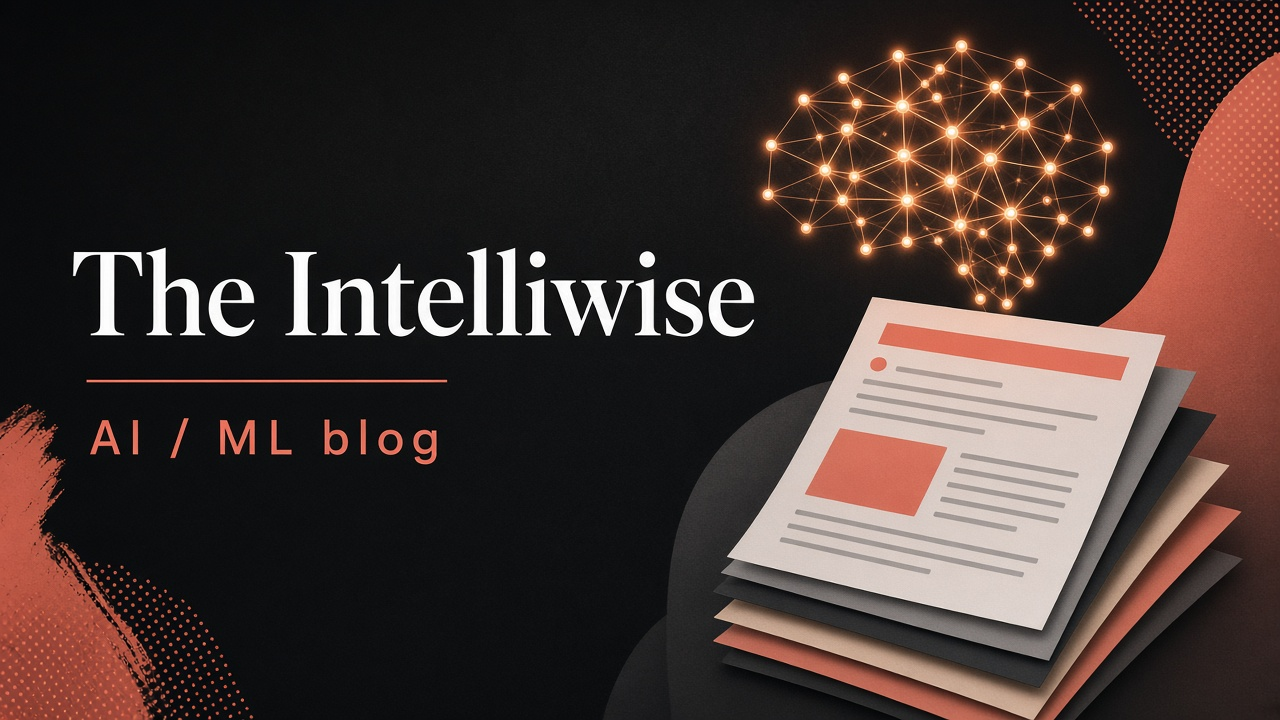
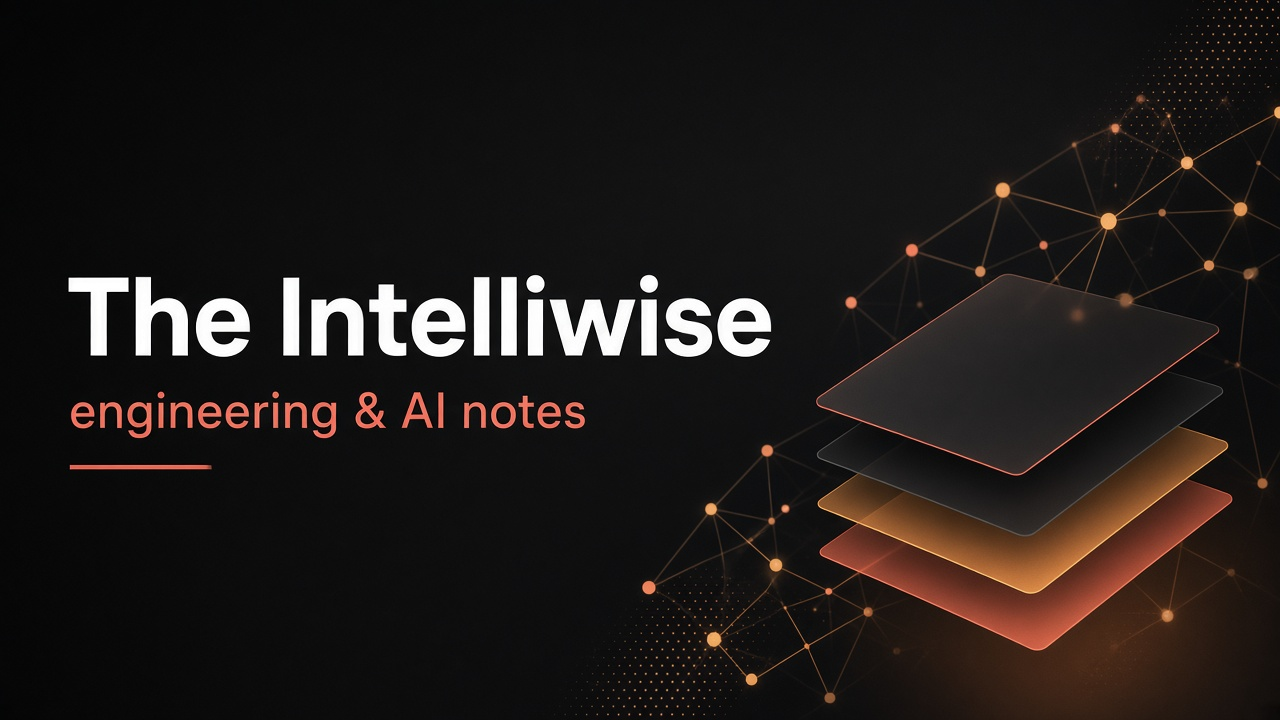
Swap in the revised Intelliwise featured thumbnail
Replace the earlier featured graphic with Vijay’s updated JPG
(neural net + stacked layers; subtitle “engineering & AI notes”).
Keep the wash at ~7% light / ~10% dark, cropped and masked so the
masthead lettering does not read as duplicate site copy.

diff --git a/assets/css/main.scss b/assets/css/main.scss
@@ -76,9 +76,9 @@ body {
   -webkit-font-smoothing: antialiased;
 }
 
-/* Atmosphere from the featured graphic: charcoal, coral, neural nodes,
-   paper stack. Lettering in the asset is cropped, masked, and blurred so
-   it cannot be read as a second masthead or as a topic tagline. */
+/* Atmosphere from the featured graphic: charcoal, coral, neural net,
+   stacked layers. Lettering in the asset is cropped, masked, and blurred
+   so it cannot be read as a second masthead or as a topic tagline. */
 .site-bg {
   position: fixed;
   inset: 0;
@@ -94,25 +94,25 @@ body {
   background-image: url("../images/brand/intelliwise-featured-thumb.jpg");
   background-repeat: no-repeat;
   background-size: cover;
-  background-position: 100% 8%;
-  transform: scale(1.85);
-  transform-origin: 100% 6%;
+  background-position: 100% 42%;
+  transform: scale(1.7);
+  transform-origin: 100% 46%;
   opacity: 0.07;
   filter: saturate(0.7) contrast(0.92) blur(1.2px);
   mix-blend-mode: multiply;
   -webkit-mask-image: linear-gradient(
     112deg,
     transparent 0%,
-    transparent 36%,
-    rgba(0, 0, 0, 0.28) 52%,
-    #000 68%
+    transparent 38%,
+    rgba(0, 0, 0, 0.28) 54%,
+    #000 70%
   );
   mask-image: linear-gradient(
     112deg,
     transparent 0%,
-    transparent 36%,
-    rgba(0, 0, 0, 0.28) 52%,
-    #000 68%
+    transparent 38%,
+    rgba(0, 0, 0, 0.28) 54%,
+    #000 70%
   );
 }
 
@@ -121,9 +121,9 @@ body {
   position: absolute;
   inset: 0;
   background:
-    radial-gradient(ellipse 58% 50% at 0% 100%, rgba(201, 92, 74, 0.09), transparent 72%),
-    radial-gradient(ellipse 44% 42% at 100% 0%, rgba(232, 140, 90, 0.08), transparent 70%),
-    radial-gradient(ellipse 26% 22% at 90% 22%, rgba(255, 176, 96, 0.05), transparent 68%);
+    radial-gradient(ellipse 48% 44% at 100% 82%, rgba(201, 92, 74, 0.09), transparent 72%),
+    radial-gradient(ellipse 40% 38% at 100% 10%, rgba(232, 140, 90, 0.07), transparent 70%),
+    radial-gradient(ellipse 28% 26% at 88% 58%, rgba(232, 168, 90, 0.05), transparent 68%);
   mix-blend-mode: multiply;
 }
 
@@ -137,9 +137,9 @@ body {
   .site-bg::after {
     mix-blend-mode: screen;
     background:
-      radial-gradient(ellipse 58% 50% at 0% 100%, rgba(201, 92, 74, 0.08), transparent 72%),
-      radial-gradient(ellipse 44% 42% at 100% 0%, rgba(232, 140, 90, 0.07), transparent 70%),
-      radial-gradient(ellipse 26% 22% at 90% 22%, rgba(255, 176, 96, 0.07), transparent 68%);
+      radial-gradient(ellipse 48% 44% at 100% 82%, rgba(201, 92, 74, 0.08), transparent 72%),
+      radial-gradient(ellipse 40% 38% at 100% 10%, rgba(232, 140, 90, 0.07), transparent 70%),
+      radial-gradient(ellipse 28% 26% at 88% 58%, rgba(232, 168, 90, 0.07), transparent 68%);
   }
 }
 
